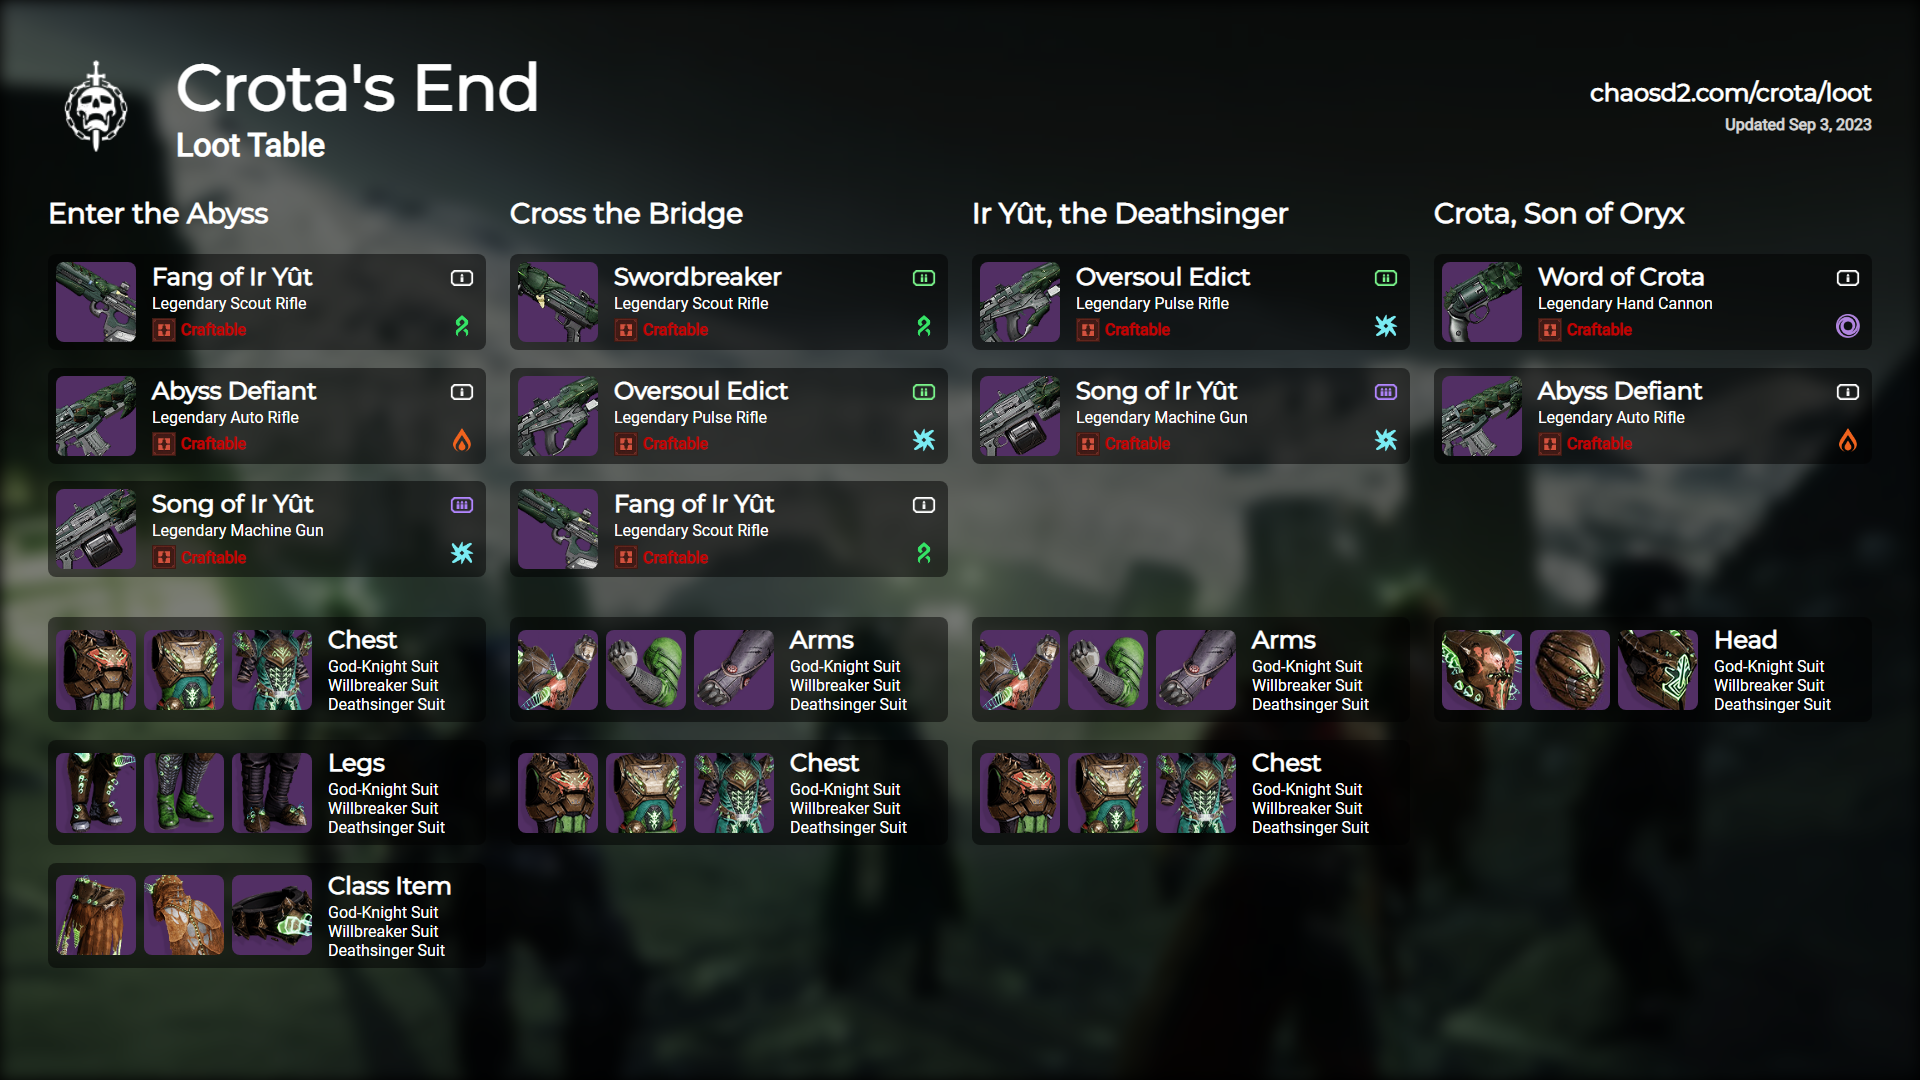
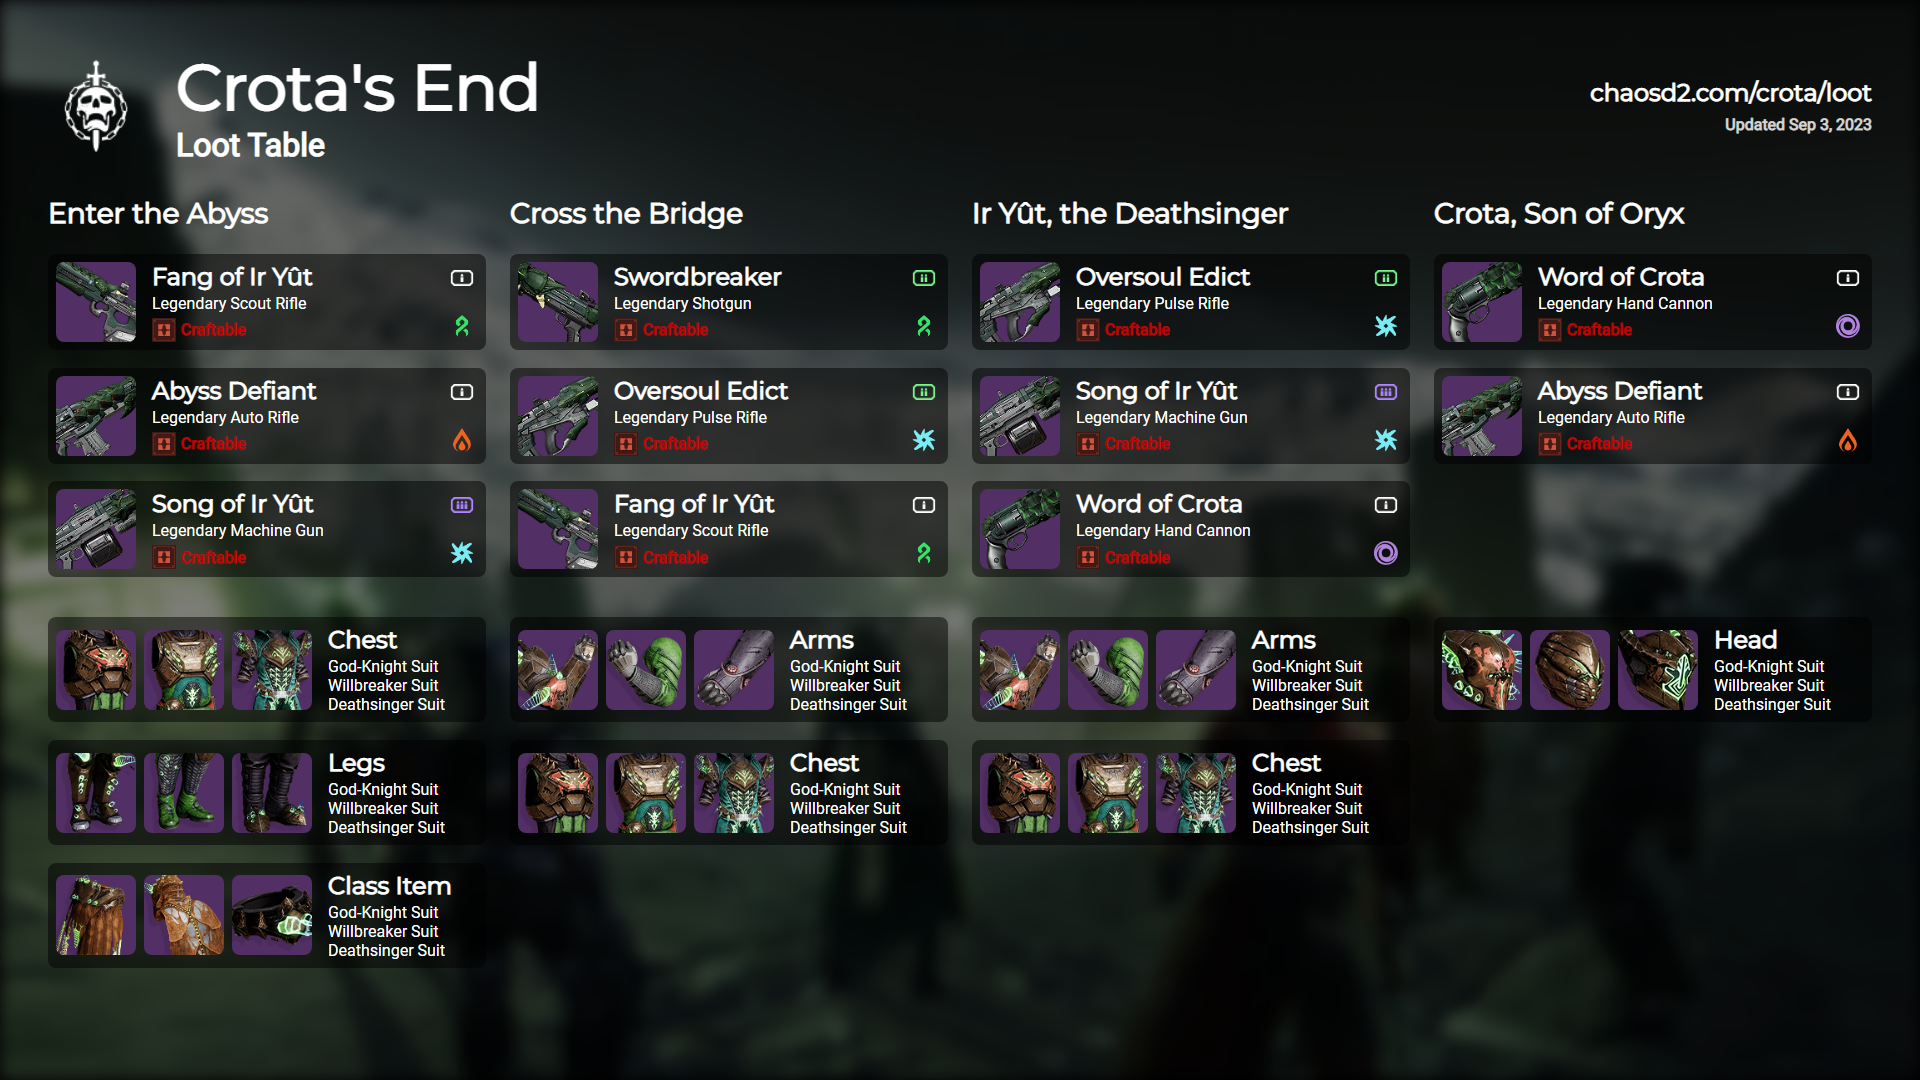
Updated incorrect Crota's info

Changed region(s): [[0.5, 0.4278, 0.75, 0.55], [0.375, 0.275, 0.4062, 0.3056]]

diff --git a/src/app/image_sources/raids/crotas_end/loot/page.js b/src/app/image_sources/raids/crotas_end/loot/page.js
@@ -57,7 +57,8 @@ const data = {
             name: "Ir Yût, the Deathsinger",
             "items": [
                 items.pulse_rifle,
-                items.machine_gun
+                items.machine_gun,
+                items.hand_cannon
             ],
             "armour": [
                 "Arms",

diff --git a/src/lib/bungie/APIHandler.js b/src/lib/bungie/APIHandler.js
@@ -38,7 +38,7 @@ const static_definitions = {
         "damageTypeHashes": [
             damage.Strand
         ],
-        "itemTypeAndTierDisplayName": "Legendary Scout Rifle",
+        "itemTypeAndTierDisplayName": "Legendary Shotgun",
     },
     "1034055198": {
         "displayProperties": {
